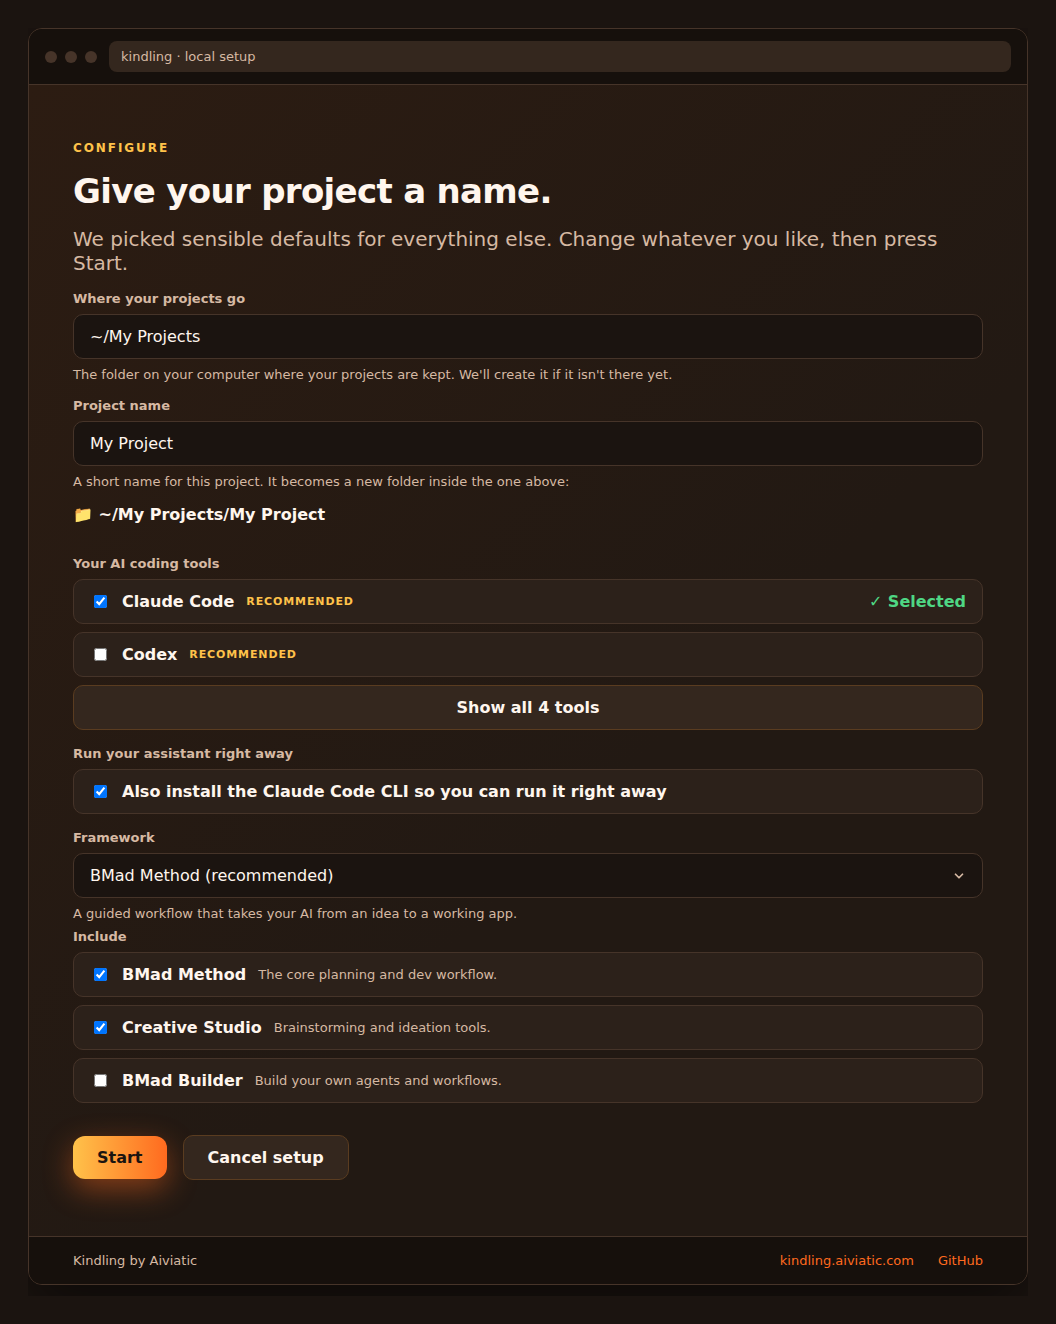
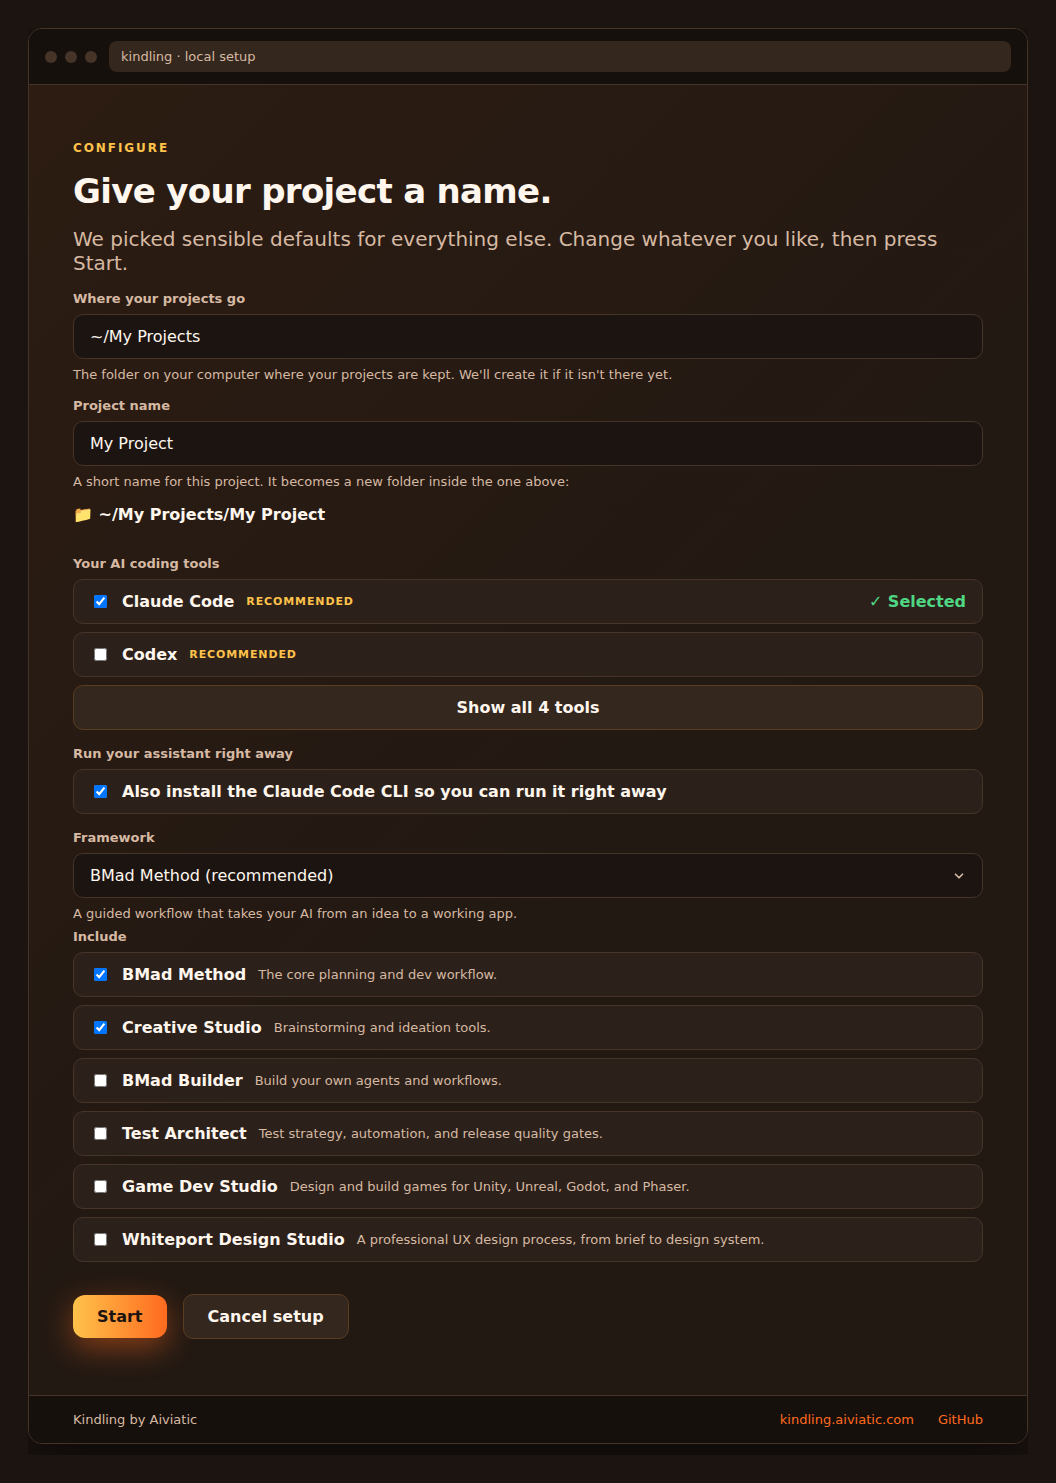
feat(configure): expose more BMad modules (Test Architect, Game Dev Studio, Whiteport)
Adds three more of BMad's installable modules to the "Include" list, each verified
to install cleanly and non-interactively via --modules:
- tea  → Test Architect
- gds  → Game Dev Studio (Unity, Unreal, Godot, Phaser)
- wds  → Whiteport Design Studio

Automator is deliberately left out: it's experimental and installs from a moving
`main` HEAD, which breaks the pinned/reproducible install. Regenerated the
Configure screenshot to show the six-module list.

Claude-Session: https://claude.ai/code/session_014Ay1bZiDNd65qr6ib2rPoq

diff --git a/ui/config/defaults.ts b/ui/config/defaults.ts
@@ -8,13 +8,18 @@ export interface ModuleOption {
   recommended: boolean;
 }
 
-// User-facing BMad module choices (a curated subset of the installed modules). bmm + cis are the
+// User-facing BMad module choices (a curated subset of BMad's module registry). bmm + cis are the
 // default/recommended set; the rest are opt-in. ids are exact `--modules` values. Order matters
-// (it's the display order): Creative Studio sits above BMad Builder.
+// (it's the display order). Automator is intentionally omitted: it's experimental and installs from
+// a moving `main` HEAD, which breaks the pinned/reproducible install. Each option here is verified
+// to install cleanly and non-interactively.
 export const MODULE_OPTIONS: ModuleOption[] = [
   { id: 'bmm', name: 'BMad Method', description: 'The core planning and dev workflow.', recommended: true },
   { id: 'cis', name: 'Creative Studio', description: 'Brainstorming and ideation tools.', recommended: true },
   { id: 'bmb', name: 'BMad Builder', description: 'Build your own agents and workflows.', recommended: false },
+  { id: 'tea', name: 'Test Architect', description: 'Test strategy, automation, and release quality gates.', recommended: false },
+  { id: 'gds', name: 'Game Dev Studio', description: 'Design and build games for Unity, Unreal, Godot, and Phaser.', recommended: false },
+  { id: 'wds', name: 'Whiteport Design Studio', description: 'A professional UX design process, from brief to design system.', recommended: false },
 ];
 
 export const DEFAULT_IDE = 'claude-code';
